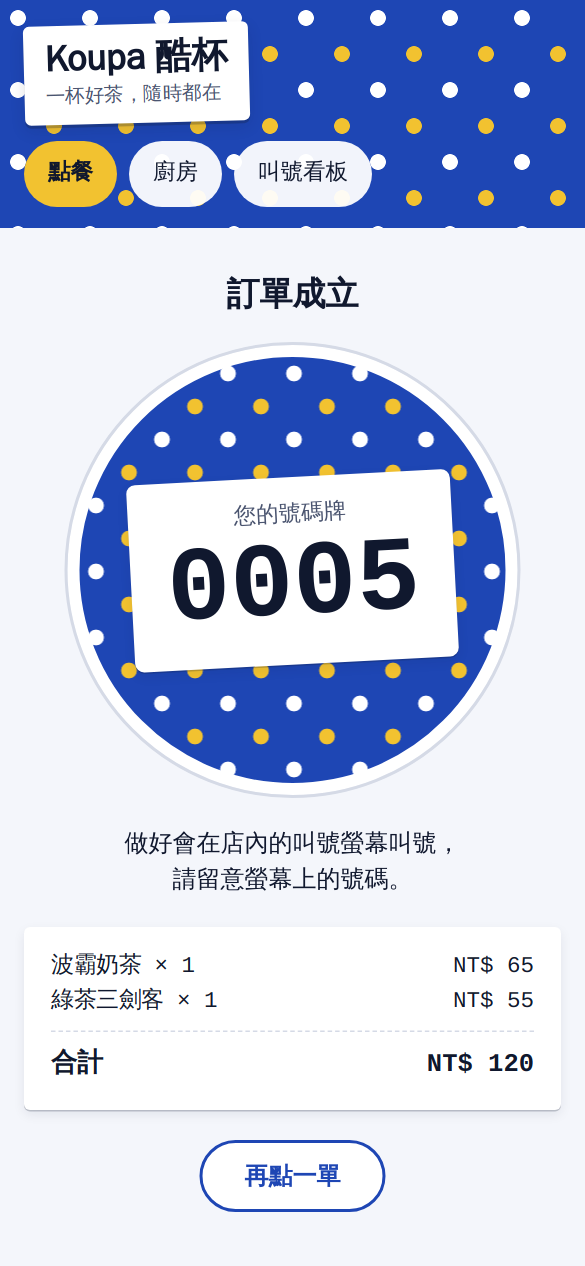
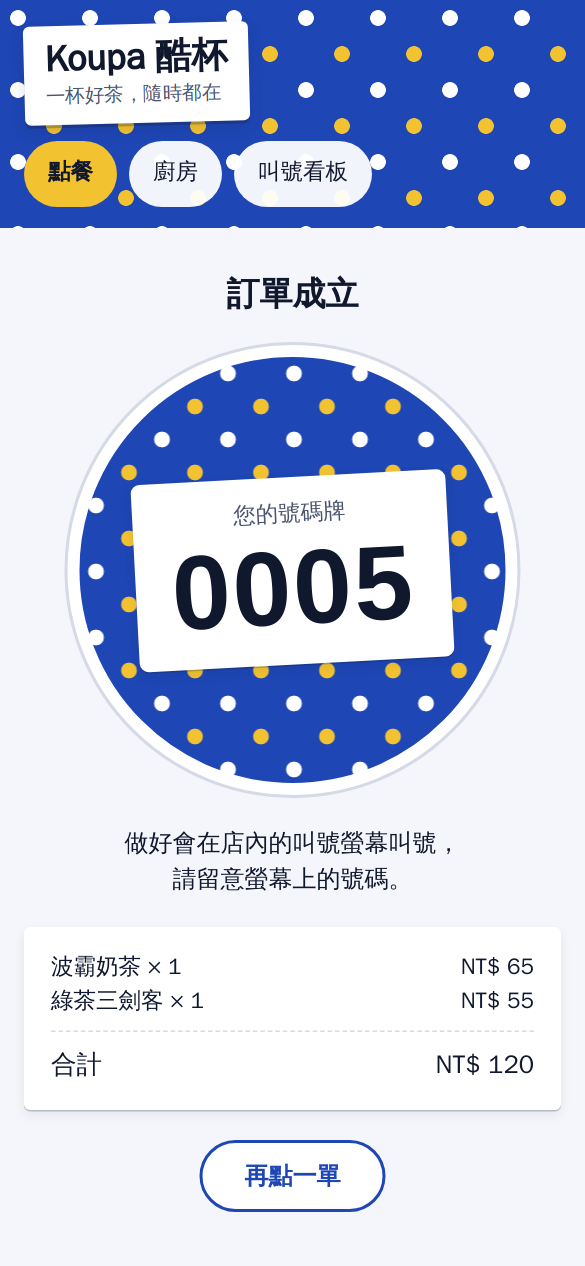
fix(web): no dotted zeros in numbers; board uses the film-band header
Numbers use a bold sans with tabular lining figures instead of the
system monospace, whose dotted or slashed zero reads like a decimal
point at display size. Monospace stays only on digit-free text. The
board now has the same film-band header as the other pages, shorter
on 16:9. Screenshots and DESIGN.md refreshed.

Claude-Session: https://claude.ai/code/session_017FmE8k6nqVAKhNRYT9ZjwB

diff --git a/01/app/web/app.css b/01/app/web/app.css
@@ -41,7 +41,15 @@ button:disabled { cursor: not-allowed; }
 [hidden] { display: none !important; }
 ul { margin: 0; padding: 0; list-style: none; }
 h1, h2 { margin: 0; line-height: 1.3; text-wrap: balance; }
-.num { font-family: var(--mono); font-variant-numeric: tabular-nums lining-nums; letter-spacing: 0; }
+/* Numbers (tickets, prices, quantities) use the sans with tabular lining
+   figures: the system monospace faces draw a dotted or slashed zero that
+   reads like a decimal point at display size. A Latin sans with a real
+   bold comes first so the digits keep their weight where the CJK face
+   has only one. */
+.num {
+  font-family: -apple-system, "Segoe UI", "Liberation Sans", var(--sans);
+  font-variant-numeric: tabular-nums lining-nums; letter-spacing: 0.02em;
+}
 .sr-only {
   position: absolute; width: 1px; height: 1px; padding: 0; margin: -1px;
   overflow: hidden; clip: rect(0 0 0 0); white-space: nowrap; border: 0;
@@ -136,8 +144,8 @@ main { flex: 1; width: 100%; }
 .card:nth-child(4n+3) .label { transform: rotate(1.5deg); }
 .card:nth-child(4n+4) .label { transform: rotate(-1deg); }
 .card .name { font-size: 17px; font-weight: 900; line-height: 1.35; }
-.card .price { font-family: var(--mono); font-size: 14px; color: var(--ink-2); }
-.card .sold-label { font-family: var(--mono); font-size: 14px; font-weight: 700; color: var(--red); }
+.card .price { font-family: var(--sans); font-variant-numeric: tabular-nums lining-nums; font-size: 14px; color: var(--ink-2); }
+.card .sold-label { font-family: var(--sans); font-variant-numeric: tabular-nums lining-nums; font-size: 14px; font-weight: 700; color: var(--red); }
 .card.sold-out .cup { background: var(--sold-disc); }
 .card.sold-out img { filter: grayscale(1); opacity: 0.6; }
 .card.sold-out .name { color: var(--ink-2); }
@@ -156,7 +164,7 @@ main { flex: 1; width: 100%; }
 }
 .stepper .inc::after { transform: translate(-50%, -50%) rotate(90deg); }
 .stepper button:disabled { border-color: var(--line); background: var(--surface); color: #9AA3BA; }
-.stepper .qty { min-width: 2ch; text-align: center; font-family: var(--mono); font-size: 20px; font-weight: 700; }
+.stepper .qty { min-width: 2ch; text-align: center; font-family: var(--sans); font-variant-numeric: tabular-nums lining-nums; font-size: 20px; font-weight: 700; }
 #menu.locked .stepper { opacity: 0.7; }
 
 .cart {
@@ -168,7 +176,7 @@ main { flex: 1; width: 100%; }
   display: flex; align-items: center; gap: 12px; padding: 10px 10px 10px 16px; border-radius: 6px;
   background: var(--surface); color: var(--ink); box-shadow: var(--lift);
 }
-.cart-sum { flex: 1; min-width: 0; font-family: var(--mono); font-size: 17px; font-weight: 700; white-space: nowrap; }
+.cart-sum { flex: 1; min-width: 0; font-family: var(--sans); font-variant-numeric: tabular-nums lining-nums; font-size: 17px; font-weight: 700; white-space: nowrap; }
 .cart-sum .sep { margin: 0 6px; color: var(--ink-2); font-weight: 400; }
 #submit {
   min-height: 48px; padding: 0 22px; border-radius: 999px; border: none; flex-shrink: 0;
@@ -191,7 +199,7 @@ main { flex: 1; width: 100%; }
 .done p { margin: 0; font-size: 16px; }
 .receipt {
   width: 100%; max-width: 26rem; padding: 16px 18px; display: flex; flex-direction: column; gap: 8px; text-align: left;
-  font-family: var(--mono);
+  font-family: var(--sans); font-variant-numeric: tabular-nums lining-nums;
 }
 .receipt li, .receipt .sum { display: flex; justify-content: space-between; gap: 12px; font-size: 15px; }
 .receipt .sum { padding-top: 10px; border-top: 1px dashed var(--line); font-size: 17px; font-weight: 700; }
@@ -218,13 +226,13 @@ main { flex: 1; width: 100%; }
 .ticket-card .meta { display: flex; justify-content: space-between; align-items: baseline; gap: 12px; }
 .ticket-card .tag { display: block; font-size: 13px; font-weight: 700; color: var(--ink-2); }
 .ticket-card .number { display: block; font-size: 46px; font-weight: 700; line-height: 1.05; }
-.ticket-card .total { font-family: var(--mono); font-size: 15px; color: var(--ink-2); }
+.ticket-card .total { font-family: var(--sans); font-variant-numeric: tabular-nums lining-nums; font-size: 15px; color: var(--ink-2); }
 .ticket-card .items {
   display: flex; flex-direction: column; gap: 6px; padding: 10px 0; font-size: 17px;
   border-top: 1px dashed var(--line); border-bottom: 1px dashed var(--line);
 }
 .ticket-card .items li { display: flex; justify-content: space-between; gap: 12px; }
-.ticket-card .items .q { font-family: var(--mono); font-weight: 700; white-space: nowrap; }
+.ticket-card .items .q { font-family: var(--sans); font-variant-numeric: tabular-nums lining-nums; font-weight: 700; white-space: nowrap; }
 .ticket-card .done-btn {
   min-height: 56px; border-radius: 6px; border: none; background: var(--film); color: var(--on-primary);
   font-size: 20px; font-weight: 900;
@@ -245,7 +253,7 @@ main { flex: 1; width: 100%; }
 }
 .supply-list li.sold-out::before { background: var(--sold-disc); }
 .supply-list .name { flex: 1; font-weight: 900; }
-.supply-list .state { font-family: var(--mono); font-size: 14px; color: var(--ink-2); }
+.supply-list .state { font-family: var(--sans); font-variant-numeric: tabular-nums lining-nums; font-size: 14px; color: var(--ink-2); }
 .supply-list li.sold-out .state { color: var(--red); font-weight: 700; }
 .supply-list button {
   min-height: 44px; padding: 0 14px; border-radius: 999px; border: 2px solid var(--film);
@@ -257,13 +265,9 @@ main { flex: 1; width: 100%; }
 
 /* ---- board page ---- */
 body[data-page="board"] { height: 100vh; height: 100dvh; }
-.site.plain { padding: 12px clamp(16px, 3vw, 36px); background: var(--surface); border-bottom: 1px solid var(--line); }
-.site.plain .brand { flex-direction: row; align-items: baseline; gap: 2px 14px; padding: 0; transform: none; box-shadow: none; }
-.site.plain .brand-name { font-size: clamp(22px, 2.2vw, 30px); }
-.site.plain .slogan { font-size: clamp(13px, 1.1vw, 15px); }
-.site.plain nav a { background: transparent; }
-.site.plain nav a:hover { background: var(--soft); }
-.site.plain nav a[aria-current="page"] { background: var(--dot); }
+/* Same film-band header, shorter so the 16:9 screen keeps its height. */
+body[data-page="board"] .site { padding: 10px clamp(16px, 3vw, 36px); }
+body[data-page="board"] .brand { flex-direction: row; align-items: baseline; gap: 2px 12px; padding: 6px 14px; }
 .board {
   flex: 1; min-height: 0; display: grid; grid-template-columns: 2fr 3fr; gap: clamp(20px, 3vw, 40px);
   padding: clamp(14px, 3.5vh, 32px) clamp(16px, 3vw, 36px);

diff --git a/01/app/web/board.html b/01/app/web/board.html
@@ -3,12 +3,12 @@
 <head>
 <meta charset="utf-8">
 <meta name="viewport" content="width=device-width,initial-scale=1">
-<meta name="theme-color" content="#FFFFFF">
+<meta name="theme-color" content="#1E46B4">
 <title>Koupa 酷杯 - 叫號看板</title>
 <link rel="stylesheet" href="/app.css">
 </head>
 <body data-page="board">
-<header class="site plain">
+<header class="site film">
   <div class="brand"><a class="brand-name" href="/">Koupa 酷杯</a><span class="slogan">一杯好茶，隨時都在</span></div>
   <nav aria-label="頁面"><a href="/">點餐</a><a href="/kitchen">廚房</a><a href="/board" aria-current="page">叫號看板</a></nav>
 </header>

diff --git a/DESIGN.md b/DESIGN.md
@@ -31,7 +31,9 @@ No yellow dot ever sits under text: text on film is always on a solid sticker or
 ## Type
 
 - Text: system CJK sans, `"PingFang TC", "Noto Sans TC", "Noto Sans CJK TC", "Microsoft JhengHei", "Heiti TC", "WenQuanYi Zen Hei", system-ui, sans-serif`. Names and headings 900, body 400.
-- Label-printer text (numbers, prices, quantities, statuses, the slogan): `ui-monospace, "SFMono-Regular", Menlo, Consolas, "Liberation Mono", "Noto Sans Mono", monospace` with `tabular-nums`, so ticket digits stay aligned whatever monospace is installed. The class `.num` applies it.
+- Numbers (ticket numbers on the confirmation, kitchen strips, board and 剛剛叫過): `.num` = `-apple-system, "Segoe UI", "Liberation Sans", <CJK sans stack>` with `tabular-nums lining-nums`, bold. A Latin sans with a real bold comes first because the CJK fallbacks may have a single weight. No monospace for numbers: the system monospace faces draw a dotted or slashed zero that reads like a decimal point at display size.
+- Prices, quantities, receipt lines, statuses: the CJK sans stack with `tabular-nums lining-nums`.
+- Monospace (`ui-monospace, "SFMono-Regular", Menlo, Consolas, "Liberation Mono", "Noto Sans Mono", monospace`) only for text without digits: the slogan on the brand sticker, the 送出中… notice, and the `?debug=1` strip.
 - No web fonts and no external requests (enforced by `web_test.go`).
 - Scale: 13–15 small, 17 names/body, 20–22 headings, 46 kitchen number, `clamp(56px, 18vw, 88px)` confirmation number, up to 140px board number (sized by `vw`/`vh`).
 
@@ -39,11 +41,11 @@ No yellow dot ever sits under text: text on film is always on a solid sticker or
 
 - **Film field** (`.film`): `#1E46B4` with a repeating dot print (white and yellow dots, `--tile` 48px / `--r` 5px; 44px on the confirmation disc, 64px / 7px on the board). Used only as a field: the header band on 點餐 and 廚房, the confirmation disc, the board's disc.
 - **Sticker** (`.sticker`): white, radius 4px (6px for the big ones), drop line `0 1px 0 rgba(16,24,46,.22), 0 3px 8px rgba(16,24,46,.08)`. Lists tilt by at most 1.5deg (menu labels -1.5 / 1 / 1.5 / -1deg, kitchen strips ±0.6deg); the called number tilts -3deg.
-- **Header**: film band with the brand sticker (Koupa 酷杯 + slogan in mono, -1.5deg) and nav pills (white 94%, current = yellow). The board header is plain white with a bottom hairline so the disc is the only film on screen.
-- **Menu cup** (`.card`): photo in a circle with a printed film rim (`repeating-conic-gradient` cobalt/white, 7px), label sticker below with name, `NT$` price, then the stepper: 44px round − / + with drawn marks (CSS bars, no glyphs). The quantity is mono 20px.
-- **Cart bar**: sticky white sticker at the bottom, `N 杯 / NT$ X` in mono, pill button 確認點餐 (48px).
-- **Confirmation**: 訂單成立, a film disc with a white rim holding the 您的號碼牌 sticker (number in mono), the 叫號 note, a receipt sticker (mono lines, dashed rule above 合計), outline pill 再點一單.
-- **Kitchen strip** (`.ticket-card`): 號碼牌 + number 46px mono, `NT$` total, items between dashed rules, full-width 完成 button 56px.
+- **Header** (same on all three pages): film band with the brand sticker (Koupa 酷杯 + slogan in mono, -1.5deg) and nav pills (white 94%, current = yellow, 44px). On the board the band is shorter (10px padding, brand and slogan on one line) to keep the 16:9 height.
+- **Menu cup** (`.card`): photo in a circle with a printed film rim (`repeating-conic-gradient` cobalt/white, 7px), label sticker below with name, `NT$` price, then the stepper: 44px round − / + with drawn marks (CSS bars, no glyphs). The quantity is 20px bold tabular.
+- **Cart bar**: sticky white sticker at the bottom, `N 杯 / NT$ X` in tabular figures, pill button 確認點餐 (48px).
+- **Confirmation**: 訂單成立, a film disc with a white rim holding the 您的號碼牌 sticker (bold tabular number), the 叫號 note, a receipt sticker (tabular figures, dashed rule above 合計), outline pill 再點一單.
+- **Kitchen strip** (`.ticket-card`): 號碼牌 + number 46px bold tabular, `NT$` total, items between dashed rules, full-width 完成 button 56px.
 - **Supply sticker**: small cup mark (film blue / grey), name, 供應中 or 今日售完, outline pill toggle (filled when sold out: 恢復供應).
 - **Board**: left 製作中 = label strips in a 2-column grid (number + 準備中), max 16 including a 還有 N 張 strip; right = big disc (`min(100%, 64vh, 520px)`, white rim) with the sticker 請 / number / 號取餐, 剛剛叫過 row of small stickers below. The 請取餐 heading is visually hidden.
 

diff --git a/.impeccable/surfaces/storefront.md b/.impeccable/surfaces/storefront.md
@@ -5,8 +5,8 @@ Mode: Operate. Pages: `01/app/web/order.html`, `kitchen.html`, `board.html`, sha
 ## Direction contract
 
 - **THESIS**: the shop's own consumables are the interface: the printed sealing film on every cup and the label-printer sticker on its side. Refuses the generic card-grid shop template.
-- **OWN-WORLD**: cool white/blue-grey ground `#F4F6FB`; cobalt film `#1E46B4` with a repeating dot print (white + golden-yellow `#F2C230` dots) used as a field (header band, the board's big film disc), never as scattered decoration and never under text; label stickers: white, small radius, 1px drop line, slight tilt (≤2°, the called number 3°), monospace label-printer text; ink `#10182E`; red `#B42318` only for 售完 and errors. Round shapes for anything that is "the cup", rectangular stickers for anything that is "information".
+- **OWN-WORLD**: cool white/blue-grey ground `#F4F6FB`; cobalt film `#1E46B4` with a repeating dot print (white + golden-yellow `#F2C230` dots) used as a field (header band, the board's big film disc), never as scattered decoration and never under text; label stickers: white, small radius, 1px drop line, slight tilt (≤2°, the called number 3°), label-printer feel from monospace only on digit-free text (slogan, notices); numbers in a bold sans with tabular lining figures (a dotted zero reads as a decimal point); ink `#10182E`; red `#B42318` only for 售完 and errors. Round shapes for anything that is "the cup", rectangular stickers for anything that is "information".
 - **STORY**: a customer picks cups (round film discs with a sticker each), sees `N 杯 / NT$ X` on the bottom sticker bar and gets a ticket number printed big on a sticker over a film disc; the kitchen works through printed label strips and presses 完成; the shop screen presses the called number onto the big film disc.
-- **FIRST VIEWPORT**: order page on a 390px phone: film header band with the tilted brand sticker and nav pills, 今天想喝什麼？, the first row of two cup discs with their label stickers and steppers, the sticky cart sticker bar. Board on 16:9: 製作中 label strips on the left, the big film disc with 請 / number / 號取餐 on the right.
+- **FIRST VIEWPORT**: order page on a 390px phone: film header band with the tilted brand sticker and nav pills, 今天想喝什麼？, the first row of two cup discs with their label stickers and steppers, the sticky cart sticker bar. Board on 16:9: the same (shorter) film header band, 製作中 label strips on the left, the big film disc with 請 / number / 號取餐 on the right.
 - **FORM**: signature move = the called number on a tilted white sticker pressed onto the cobalt dotted film disc. `seed: none (pinned)` because the user picked direction B from four previews.
 - **RAISES**: none.
